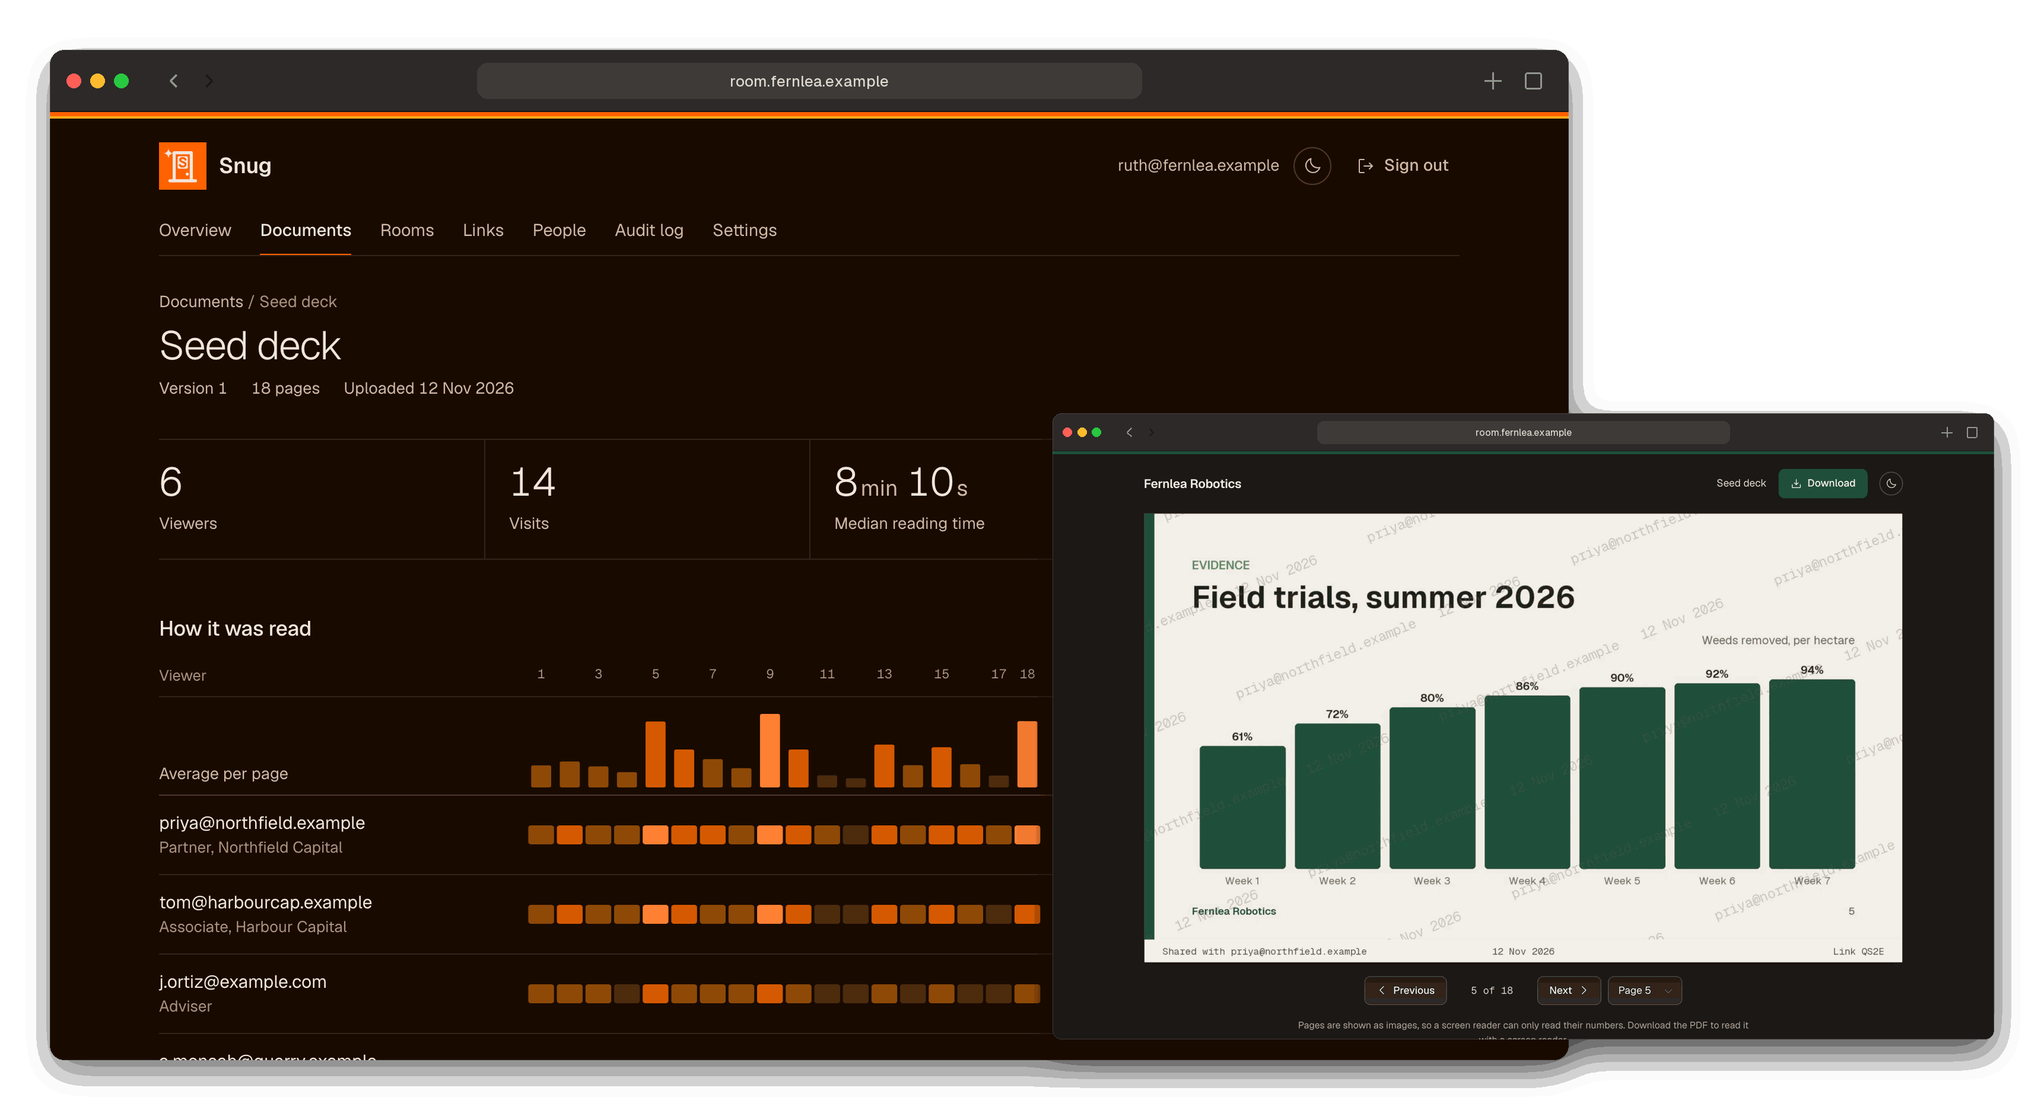
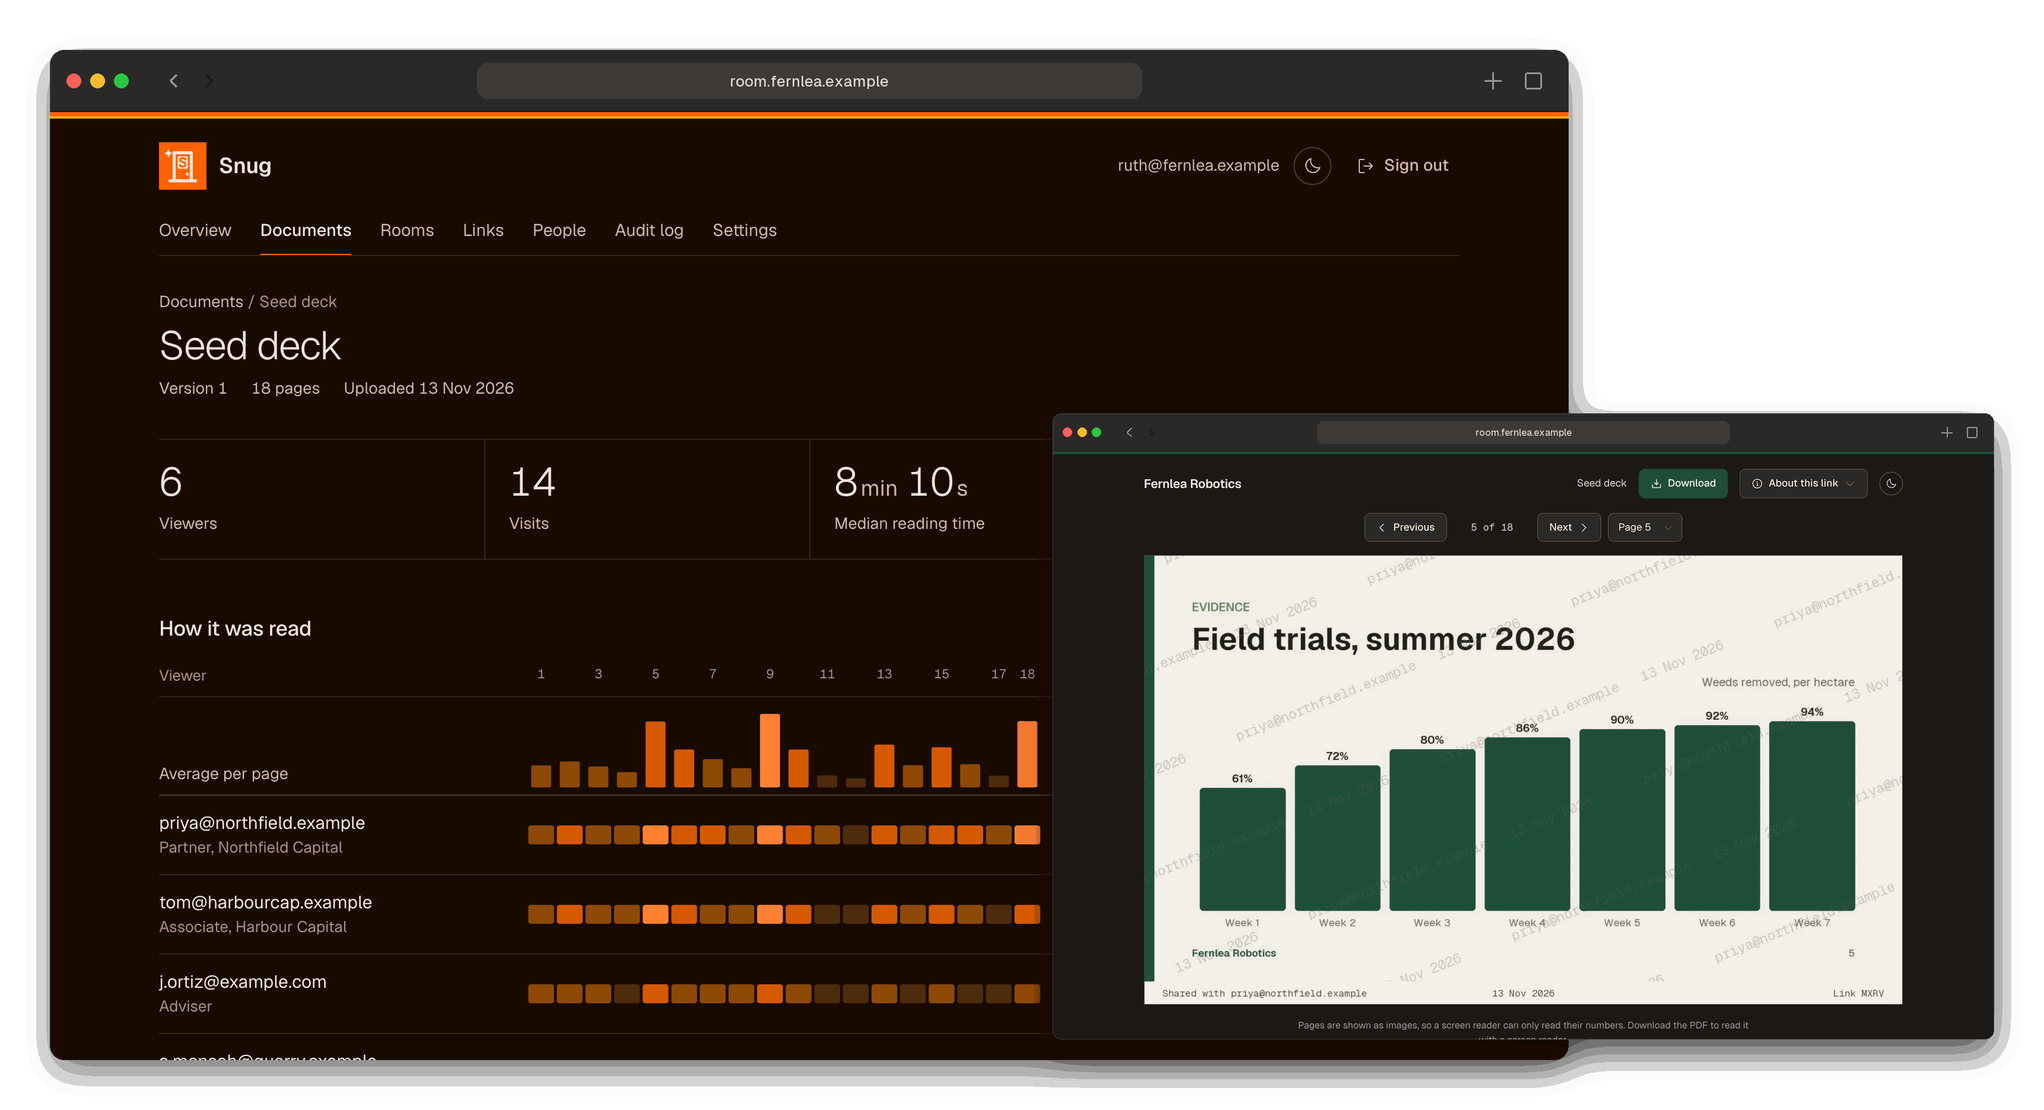
Open About this link from the top right, and put the controls above the page
Investors mostly download, and use the reader for quick reference, so the
page keeps the whole width. In the reader and on the video page, About
this link is now a button at the top right, beside Download: an info
icon, the words (on a phone, kept for screen readers) and a caret that
turns when it opens, dropping the panel down over the page, against the
right edge. It is a <details> element, so it works without JavaScript and
screen readers announce it as one; about.js closes it on Escape or a
click elsewhere. Pages without a big image keep the panel beside them.

Previous, Next and the page picker sit above the page, so turning to a
later page needs no scrolling. A browser test clicks through both, and
checks the panel fits the screen on a desktop and a phone.

Phosphor's info icon is vendored from v2.0.8, like the others.

Changed region(s): [[0.5591, 0.4028, 0.9318, 0.7126], [0.5591, 0.7746, 0.9318, 0.9295]]

diff --git a/snug/templates/viewer/reader.html b/snug/templates/viewer/reader.html
@@ -1,16 +1,12 @@
 {% extends "viewer/base.html" %}
 {% load static snug %}
 {% block title %}{{ title }}{% endblock %}
-{% block scripts %}<script src="{% static 'snug/js/viewer.js' %}" defer></script>{% endblock %}
-{% block tools %}{% if room_url %}<a class="btn btn-quiet" href="{{ room_url }}">{% icon "caret-left" %}{{ link.room.name }}</a>{% endif %}<span class="doc">{{ title }}</span>{% if page and link.allow_download %}<a class="btn btn-brand" href="{{ download_url }}">{% icon "download-simple" %}Download</a>{% endif %}{% endblock %}
+{% block scripts %}<script src="{% static 'snug/js/viewer.js' %}" defer></script><script src="{% static 'snug/js/about.js' %}" defer></script>{% endblock %}
+{% block tools %}{% if room_url %}<a class="btn btn-quiet" href="{{ room_url }}">{% icon "caret-left" %}{{ link.room.name }}</a>{% endif %}<span class="doc">{{ title }}</span>{% if page and link.allow_download %}<a class="btn btn-brand" href="{{ download_url }}">{% icon "download-simple" %}Download</a>{% endif %}{% if page %}{% include "viewer/_about_toggle.html" %}{% endif %}{% endblock %}
 {% block main %}
 {% if page %}
 <div class="reader" data-visit="{{ visit }}" data-page="{{ page }}" data-beat-url="{{ beat_url }}" data-interval="{{ beat_seconds }}">
   <form class="beacon" hidden>{% csrf_token %}</form>
-  <div class="page-frame">
-    <span class="page-loading" aria-hidden="true">Loading page {{ page }}</span>
-    <img src="{{ src }}" srcset="{{ srcset }}" sizes="(max-width: 1080px) 100vw, 1032px" width="{{ width }}" height="{{ height }}" alt="Page {{ page }} of {{ count }}"{% if prefetch %} data-next="{{ prefetch }}"{% endif %}>
-  </div>
   <nav class="reader-controls" aria-label="Pages">
     {% if previous %}<a class="btn" href="{{ here }}?page={{ previous }}" rel="prev" data-key="ArrowLeft">{% icon "caret-left" %}Previous</a>{% else %}<span class="btn" aria-disabled="true">{% icon "caret-left" %}Previous</span>{% endif %}
     <span class="pos">{{ page }} of {{ count }}</span>
@@ -21,8 +17,11 @@
       <noscript><button class="btn" type="submit">Go</button></noscript>
     </form>
   </nav>
+  <div class="page-frame">
+    <span class="page-loading" aria-hidden="true">Loading page {{ page }}</span>
+    <img src="{{ src }}" srcset="{{ srcset }}" sizes="(max-width: 1080px) 100vw, 1032px" width="{{ width }}" height="{{ height }}" alt="Page {{ page }} of {{ count }}"{% if prefetch %} data-next="{{ prefetch }}"{% endif %}>
+  </div>
   <p class="reader-note">Pages are shown as images, so a screen reader can only read their numbers. {% if link.allow_download %}Download the {% if previewed %}{{ office.short }}{% else %}PDF{% endif %} to read it with a screen reader.{% else %}Ask the person who sent this link for a copy you can read with a screen reader.{% endif %}</p>
-  {% include "viewer/_about.html" %}
 </div>
 {% else %}
 <div class="gate-grid">

diff --git a/snug/static/snug/css/snug.css b/snug/static/snug/css/snug.css
@@ -404,7 +404,19 @@ input.code-field { font-family: var(--mono); letter-spacing: 0.15em; }
    the bare video, goes full screen, so the mark goes with it. */
 .player { display: grid; gap: 1.1rem; justify-items: center; }
 /* Below the page or the video, where it moves nothing the reader is looking at. */
-.reader > .about, .player > .about { width: 100%; max-width: 32rem; margin-top: 1.5rem; }
+/* About this link, at the top right of the reader and the video page: a button
+   with an icon and a caret that turns when it is open, and the panel dropped
+   down over the page, at the right, so the page keeps its whole width. */
+/* Placed against the toolbar's right edge, which lines up with the page's at any width. */
+.v-tools { position: relative; }
+.about-toggle > summary { list-style: none; }
+.about-toggle > summary::-webkit-details-marker { display: none; }
+.about-toggle .caret { transition: transform 0.15s ease; }
+.about-toggle[open] .caret { transform: rotate(180deg); }
+.about-toggle[open] > summary { border-color: var(--text-3); }
+.about-pop { position: absolute; right: 0; top: calc(100% + 0.5rem); z-index: 20; width: min(26rem, calc(100vw - 2rem));
+    box-shadow: 0 12px 32px light-dark(rgba(28,25,23,0.16), rgba(0,0,0,0.5)); border-radius: var(--r); }
+.about-pop .about { margin: 0; }
 .video-frame { position: relative; width: 100%; border-radius: 2px; overflow: hidden; border: 1px solid var(--border); background: #000000; }
 .video-frame video { display: block; width: 100%; height: auto; max-height: 80vh; }
 .video-frame:fullscreen video { max-height: none; height: 100%; }
@@ -497,6 +509,8 @@ input.code-field { font-family: var(--mono); letter-spacing: 0.15em; }
     .header-tools .who-am-i { display: none; }
     .v-head, .v-main { padding-left: 1rem; padding-right: 1rem; }
     .v-head .doc { display: none; }
+    /* The icon and caret say what it is; the words stay for screen readers. */
+    .about-toggle .label { position: absolute; width: 1px; height: 1px; overflow: hidden; clip: rect(0 0 0 0); white-space: nowrap; }
     /* Previous, the position and Next stay on one row; the picker goes below. */
     .reader-controls { gap: 0.5rem; }
     .reader-controls .jump { flex-basis: 100%; justify-content: center; }

diff --git a/snug/templates/viewer/video.html b/snug/templates/viewer/video.html
@@ -1,8 +1,8 @@
 {% extends "viewer/base.html" %}
 {% load static snug %}
 {% block title %}{{ title }}{% endblock %}
-{% block scripts %}<script src="{% static 'snug/js/video.js' %}" defer></script>{% endblock %}
-{% block tools %}{% if room_url %}<a class="btn btn-quiet" href="{{ room_url }}">{% icon "caret-left" %}{{ link.room.name }}</a>{% endif %}<span class="doc">{{ title }}</span>{% if download_url %}<a class="btn btn-brand" href="{{ download_url }}">{% icon "download-simple" %}Download</a>{% endif %}{% endblock %}
+{% block scripts %}<script src="{% static 'snug/js/video.js' %}" defer></script><script src="{% static 'snug/js/about.js' %}" defer></script>{% endblock %}
+{% block tools %}{% if room_url %}<a class="btn btn-quiet" href="{{ room_url }}">{% icon "caret-left" %}{{ link.room.name }}</a>{% endif %}<span class="doc">{{ title }}</span>{% if download_url %}<a class="btn btn-brand" href="{{ download_url }}">{% icon "download-simple" %}Download</a>{% endif %}{% include "viewer/_about_toggle.html" %}{% endblock %}
 {% block main %}
 <div class="player" data-visit="{{ visit }}" data-beat-url="{{ beat_url }}" data-interval="{{ beat_seconds }}" data-part-seconds="{{ part_seconds }}">
   <form class="beacon" hidden>{% csrf_token %}</form>
@@ -12,6 +12,5 @@
     <button class="btn video-fullscreen" type="button" hidden>Full screen</button>
   </div>
   <p class="reader-note">{{ mark }}.</p>
-  {% include "viewer/_about.html" %}
 </div>
 {% endblock %}

diff --git a/snug/static/snug/js/about.js b/snug/static/snug/js/about.js
@@ -1,0 +1,17 @@
+// About this link, at the top right of the reader and the video page: a
+// <details> element, which opens and closes without this script. This only
+// closes it on Escape, or on a click anywhere else, as a menu would.
+'use strict';
+
+(function () {
+  document.querySelectorAll('details[data-about]').forEach(function (about) {
+    document.addEventListener('click', function (event) {
+      if (about.open && !about.contains(event.target)) about.open = false;
+    });
+    document.addEventListener('keydown', function (event) {
+      if (event.key !== 'Escape' || !about.open) return;
+      about.open = false;
+      about.querySelector('summary').focus();
+    });
+  });
+})();

diff --git a/snug/templates/viewer/_about_toggle.html b/snug/templates/viewer/_about_toggle.html
@@ -1,0 +1,4 @@
+{% load snug %}<details class="about-toggle" data-about>
+  <summary class="btn">{% icon "info" %}<span class="label">About this link</span>{% icon "caret-down" "caret" %}</summary>
+  <div class="about-pop">{% include "viewer/_about.html" %}</div>
+</details>

diff --git a/tests/test_about_toggle.py b/tests/test_about_toggle.py
@@ -1,0 +1,88 @@
+"""The reader and the video page: About this link opens from the top right, and the controls lead.
+
+Decided 13 November 2026. Investors mostly download, and use the reader for
+quick reference, so the page keeps the whole width and the About this link
+panel drops down from a button at the top right, beside Download: a
+disclosure, which works without JavaScript and which a screen reader
+announces as one. Previous, Next and the page picker sit above the page, so
+flipping to page 17 needs no scrolling. Pages without a big image keep the
+panel beside them.
+"""
+
+from pathlib import Path
+
+import pytest
+from django.test import Client
+
+from snug.documents.ingest import ingest
+from snug.documents.models import Document
+from snug.links import service
+from tests import test_video_documents as videos
+from tests import test_viewer_reader as reader
+from tests.pdfs import chunks, make_pdf
+
+pytestmark = pytest.mark.django_db
+
+
+@pytest.fixture
+def document(data_folder: Path) -> Document:
+    deck = Document.objects.create(title="Seed deck")
+    ingest(deck, chunks(make_pdf((960, 540), (960, 540))), filename="deck.pdf", uploaded_by=None)
+    return deck
+
+
+@pytest.fixture
+def issued(document: Document) -> service.Issued:
+    return reader.issue(document)
+
+
+@pytest.fixture
+def demo(data_folder: Path) -> Document:
+    video = Document.objects.create(title="Product demo")
+    ingest(video, chunks(videos.CLIP_BYTES), filename="demo.mp4", uploaded_by=None)
+    return video
+
+
+TOGGLE = '<details class="about-toggle" data-about>'
+
+
+def toggle_holds_the_panel(page: str) -> bool:
+    start = page.index(TOGGLE)
+    end = page.index("</details>", start)
+    return 'aria-label="About this link"' in page[start:end]
+
+
+def test_the_reader_has_the_toggle_at_the_top(issued: service.Issued) -> None:
+    page = reader.get(reader.opened(issued), f"/v/{issued.token}").content.decode()
+    assert TOGGLE in page and toggle_holds_the_panel(page)
+    # In the header, beside Download, not below the page.
+    assert page.index(TOGGLE) < page.index('<main class="v-main">')
+    summary = page[page.index("<summary") : page.index("</summary>")]
+    assert "About this link" in summary
+    assert 'class="icon caret"' in summary  # it shows it opens
+
+
+def test_the_reader_puts_its_controls_above_the_page(issued: service.Issued) -> None:
+    page = reader.get(reader.opened(issued), f"/v/{issued.token}").content.decode()
+    assert page.index('class="reader-controls"') < page.index('<div class="page-frame">')
+
+
+def test_the_message_is_in_the_toggle(document: Document) -> None:
+    sent = reader.issue(document, message="Ahead of Thursday's call.")
+    page = reader.get(reader.opened(sent), f"/v/{sent.token}").content.decode()
+    start = page.index(TOGGLE)
+    assert "Ahead of Thursday&#x27;s call." in page[start : page.index("</details>", start)]
+
+
+def test_the_video_page_has_the_toggle_too(demo: Document) -> None:
+    sent = videos.issue(demo, message="The demo from the board meeting.")
+    page = videos.opened(sent).get(f"/v/{sent.token}", secure=True).content.decode()
+    assert TOGGLE in page and toggle_holds_the_panel(page)
+    assert page.index(TOGGLE) < page.index('<main class="v-main">')
+
+
+def test_the_landing_page_keeps_the_panel_beside_it(document: Document) -> None:
+    sent = reader.issue(document)
+    page = reader.get(Client(), f"/v/{sent.token}").content.decode()
+    assert 'aria-label="About this link"' in page
+    assert TOGGLE not in page

diff --git a/tests/e2e/test_viewer_flow.py b/tests/e2e/test_viewer_flow.py
@@ -204,3 +204,58 @@ def test_a_rooms_folders_read_as_folders(live_server: Any, page: Page, document:
         page.locator(".room-index").screenshot(path=f"{shots}/room-folders.png")
     page.get_by_role("link", name="Seed deck").click()
     expect_page(page, 1, 3)
+
+
+def test_about_this_link_opens_from_the_top_right(
+    live_server: Any, page: Page, document: Document
+) -> None:
+    # Decided 13 November 2026: the panel drops down from a button beside
+    # Download, and Previous and Next sit above the page.
+    import os
+
+    shots = os.environ.get("SNUG_SHOT_DIR")
+    issued = issue(document, verify=False)
+    page.set_viewport_size({"width": 1280, "height": 800})
+    page.goto(f"{live_server.url}/v/{issued.token}")
+    page.get_by_role("button", name="Open Seed deck").click()
+    expect_page(page, 1, 3)
+    toggle = page.locator("summary", has_text="About this link")
+    panel = page.get_by_role("complementary", name="About this link")
+    expect(panel).to_be_hidden()
+    controls = page.get_by_role("navigation", name="Pages").bounding_box()
+    image = page.get_by_role("img", name="Page 1 of 3").bounding_box()
+    assert controls is not None and image is not None and controls["y"] < image["y"]
+    if shots:
+        page.screenshot(path=f"{shots}/reader-closed.png")
+    toggle.click()
+    expect(panel).to_be_visible()
+    fits_on_screen(page, panel)
+    button, box = toggle.bounding_box(), panel.bounding_box()
+    assert button is not None and box is not None
+    assert box["x"] + box["width"] >= button["x"] + button["width"]  # at the right, under it
+    if shots:
+        page.screenshot(path=f"{shots}/reader-open.png")
+    page.get_by_role("img", name="Page 1 of 3").click()  # anywhere else closes it
+    expect(panel).to_be_hidden()
+    toggle.click()
+    expect(panel).to_be_visible()
+    page.keyboard.press("Escape")
+    expect(panel).to_be_hidden()
+    expect(toggle).to_be_focused()
+    page.get_by_role("link", name="Next").click()
+    expect_page(page, 2, 3)
+    page.set_viewport_size({"width": 390, "height": 800})
+    words = page.locator(".about-toggle .label").bounding_box()  # kept for screen readers only
+    assert words is not None and words["width"] <= 1
+    expect(toggle).to_be_visible()  # the icon and caret
+    toggle.click()
+    expect(panel).to_be_visible()
+    fits_on_screen(page, panel)
+    if shots:
+        page.screenshot(path=f"{shots}/reader-phone.png")
+
+
+def fits_on_screen(page: Page, panel: Any) -> None:
+    box, width = panel.bounding_box(), page.viewport_size
+    assert box is not None and width is not None
+    assert box["x"] >= 0 and box["x"] + box["width"] <= width["width"], (box, width)

diff --git a/docs/design.md b/docs/design.md
@@ -217,7 +217,7 @@ The company's logo at the top left with its name beside it, or either alone, and
 2. **Code.** One six-digit field (`autocomplete="one-time-code"`). Errors appear below it and say what happens next: "That code is not right. You have 4 tries left."
 3. **NDA**, when required, headed "Before you open" and the document's name. The NDA text in a readable panel, a name field, an *I accept this agreement* checkbox, and a statement of what is recorded (name, email address, time, IP address, browser and a fingerprint of the text). The page has a note that this is a record of acceptance, not a signature.
 4. **Room index.** Folders as plain section headings (one level only), each document with what it is ("12 pages", "Excel workbook, 3 sheets", "PowerPoint presentation, 24 slides" or "MP4 video, 2:05") and last update.
-5. **Reader.** One page image at a time, with *Previous*, "5 of 18", *Next* and a page picker. Arrow keys work and pinch-zoom is never disabled. The watermark footer reads "Shared with *email*", the date, and "Link 7Q2K" in three columns, with no separators. *Download* gives the original PDF, stamped for the reader, unless the founder has turned downloads off for this link. A workbook shows a card instead, with its description, its sheets and *Download the workbook*; a video plays in a player with the watermark drawn over it and Snug's own full-screen button. Below the page or the video is the *About this link* panel, with the cover message, so it never moves what the investor is reading.
+5. **Reader.** One page image at a time, with *Previous*, "5 of 18", *Next* and a page picker above it, so turning to a later page needs no scrolling. Arrow keys work and pinch-zoom is never disabled. The watermark footer reads "Shared with *email*", the date, and "Link 7Q2K" in three columns, with no separators. *Download* gives the original PDF, stamped for the reader, unless the founder has turned downloads off for this link. A workbook shows a card instead, with its description, its sheets and *Download the workbook*; a video plays in a player with the watermark drawn over it and Snug's own full-screen button. The *About this link* panel, with the cover message, drops down over the page or the video from a button at the top right, beside *Download*: an info icon, the words (on a phone, only for screen readers) and a caret that turns when it opens. It is a `<details>` element, so it opens without JavaScript and screen readers announce it as one; Escape or a click elsewhere closes it. Most investors download, and use the reader for quick reference, so the page keeps the whole width. Decided 13 November 2026.
 6. **Unavailable.** One page for unknown, expired and revoked links alike.
 
 **Founder branding under a strict CSP.**

diff --git a/CHANGELOG.md b/CHANGELOG.md
@@ -24,6 +24,7 @@ Word and PowerPoint files, and an optional LibreOffice converter that shows Offi
 - "What Snug does not do" in the README lists what Snug leaves out, each item starting with "No".
 - A room's Add a document panel says the documents listed are not in the room yet, and that adding one shares it with everyone who has a link to the room. No document is chosen until the admin chooses one.
 - A document can be renamed from its page, as a room can.
+- In the reader and on the video page, *About this link* opens from a button at the top right, beside *Download*, instead of sitting below the page, and *Previous*, *Next* and the page picker sit above the page.
 - A long file name in a document's list of versions wraps within its column instead of running over the description beside it.
 - A room's folders have a folder icon and a name a step above its documents' titles, for investors and admins alike. On an investor's room page each folder says how many documents it holds, and its documents are indented under it.
 - Pages appear sooner. On a one-CPU server the first page of a document took up to 11 seconds to appear, blank meanwhile. Page 1 is now rendered when the file is uploaded or its preview is ready, the next page is fetched only once the current one has arrived, the watermark is drawn about twenty times faster, and the confined worker no longer compiles Python's code each time it starts. A page says "Loading page 1" until it arrives.

diff --git a/docs/using-snug.md b/docs/using-snug.md
@@ -69,7 +69,7 @@ Each link is for one person. On a document's page, choose *New link*, and fill i
 
 - **Email address**: the person you are sending it to. *Require email verification* is ticked to begin with, so they must type a code Snug emails to that address before they see anything.
 - **Note for yourself**: who they are, such as "Partner at Northfield Capital". Only admins see it.
-- **Message for them**: optional. They see it in the *About this link* panel on each of their pages, and in the email with the link.
+- **Message for them**: optional. They see it in the *About this link* panel, beside the page before they open the document and behind the *About this link* button at the top right while they read, and in the email with the link.
 - **Expires**: optional. The link stops working at the end of that day.
 - **Ask for the NDA first**, **Only from the UK** and **Allow download**, as you need them. The NDA is set up once, in Settings; [the NDA guide](nda.md) explains it.
 
